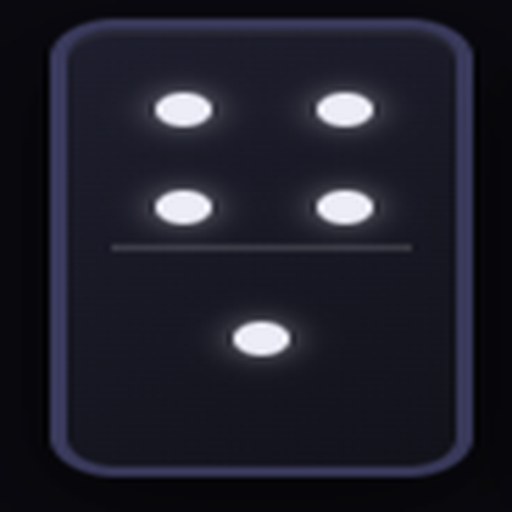
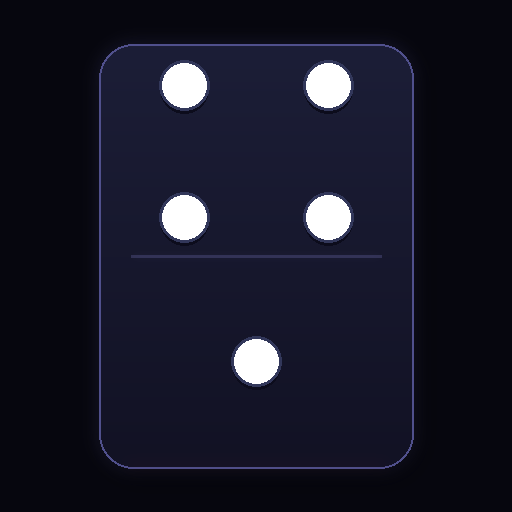
chore: update README screenshots with new Play Store images
- Replace 5 old screenshots with 6 new high-quality ones
  (home, lobby, game, ranking-active, ranking-winner, join)
- Fix image names (loby → lobby, party-players → game, etc.)
- Add 6th screenshot: join match page
- Remove dead icon-resize code from take_screenshots.py
  (icon is now generated by scripts/generate_icon.py)
- Keep icone-domino-placar.png as source artwork

Changed region(s): [[0.0938, 0.0312, 0.9375, 0.9375], [0.4375, 0.5938, 0.5938, 0.75]]

diff --git a/scripts/generate_icon.py b/scripts/generate_icon.py
@@ -2,8 +2,9 @@
 """
 Generate a polished 512×512 Play Store icon for Dominó Placar.
 
-Draws a clean domino tile (4|1) from scratch using Pillow,
-matching the app's dark theme.
+Draws a domino tile (4|1) matching the app's original dark
+style: glowing edge, 3D dots with specular highlights, subtle
+depth gradient on the tile face.
 """
 
 import os
@@ -11,96 +12,152 @@ from pathlib import Path
 from PIL import Image, ImageDraw, ImageFilter
 
 OUT = Path("play-store/app-icon-512.png")
+SIZE = 512
 
-# ── Colors (dark theme matching the app) ──
-BG = (9, 9, 15)
-TILE_FACE = (30, 30, 52)
-TILE_EDGE = (55, 55, 88)
-DOT_WHITE = (235, 235, 250)
-DIVIDER_C = (65, 65, 100)
+# ── Colors matching icone-domino-placar.png original ──
+BG = (6, 6, 14)
+TILE_DARK = (18, 18, 36)       # bottom of tile gradient
+TILE_LIGHT = (28, 30, 55)      # top of tile gradient
+EDGE_GLOW = (80, 80, 140)      # bluish edge glow
+DOT_BASE = (220, 225, 245)     # main dot color
+DOT_SHINE = (255, 255, 255)    # specular highlight
+DOT_SHADOW = (12, 12, 28)      # inset shadow behind dot
+DIVIDER_C = (50, 50, 85)
 ACCENT = (233, 69, 96)
 
-SIZE = 512
+
+def _tile_gradient(w, h, top, bot, radius):
+    """Create a tile-shaped image with vertical gradient."""
+    img = Image.new("RGBA", (w, h), (0, 0, 0, 0))
+    draw = ImageDraw.Draw(img)
+    for y in range(h):
+        t = y / max(h - 1, 1)
+        c = tuple(int(top[i] * (1 - t) + bot[i] * t) for i in range(3))
+        draw.line([(0, y), (w - 1, y)], fill=(*c, 255))
+    # Mask to rounded rect
+    mask = Image.new("L", (w, h), 0)
+    ImageDraw.Draw(mask).rounded_rectangle([0, 0, w - 1, h - 1], radius=radius, fill=255)
+    img.putalpha(mask)
+    return img
+
+
+def _draw_dot(canvas, cx, cy, r):
+    """Draw a 3D-style dot: inset shadow + base + gradient + specular."""
+    draw = ImageDraw.Draw(canvas)
+
+    # Inset shadow (offset down)
+    draw.ellipse([cx - r - 2, cy - r + 2, cx + r + 2, cy + r + 6], fill=DOT_SHADOW)
+
+    # Outer glow ring
+    draw.ellipse([cx - r - 3, cy - r - 3, cx + r + 3, cy + r + 3],
+                  fill=(50, 55, 90))
+
+    # Base dot
+    draw.ellipse([cx - r, cy - r, cx + r, cy + r], fill=DOT_BASE)
+
+    # Inner gradient: brighter toward top-left
+    for i in range(r, 2, -1):
+        t = 1 - (i / r)
+        # Shift center toward top-left for 3D lighting
+        ox, oy = -int(r * 0.15 * t), -int(r * 0.2 * t)
+        alpha = int(100 * t * t)
+        draw.ellipse([cx + ox - i, cy + oy - i, cx + ox + i, cy + oy + i],
+                      fill=(*DOT_SHINE, alpha))
+
+    # Strong specular highlight
+    sr = int(r * 0.32)
+    sx, sy = cx - int(r * 0.28), cy - int(r * 0.32)
+    draw.ellipse([sx - sr, sy - sr, sx + sr, sy + sr], fill=(*DOT_SHINE, 230))
+    # Tiny hard spec
+    tr = int(r * 0.15)
+    draw.ellipse([sx - tr, sy - tr, sx + tr, sy + tr], fill=(*DOT_SHINE, 255))
 
 
 def generate():
-    canvas = Image.new("RGB", (SIZE, SIZE), BG)
-    draw = ImageDraw.Draw(canvas)
+    canvas = Image.new("RGBA", (SIZE, SIZE), (*BG, 255))
 
-    # ── Tile dimensions (portrait, centered) ──
-    tile_w, tile_h = 300, 410
-    cr = 30
+    # ── Tile dimensions ──
+    tile_w, tile_h = 310, 420
+    cr = 32
     tx = (SIZE - tile_w) // 2
     ty = (SIZE - tile_h) // 2
 
-    # ── Drop shadow ──
-    shadow_img = Image.new("RGBA", (SIZE, SIZE), (0, 0, 0, 0))
-    sd = ImageDraw.Draw(shadow_img)
-    sd.rounded_rectangle(
-        [tx + 6, ty + 8, tx + tile_w + 6, ty + tile_h + 8],
-        radius=cr, fill=(0, 0, 0, 100))
-    shadow_img = shadow_img.filter(ImageFilter.GaussianBlur(18))
-    # Composite shadow onto canvas
-    canvas = Image.composite(
-        Image.merge("RGB", shadow_img.split()[:3]),
-        canvas,
-        shadow_img.split()[3])
-    draw = ImageDraw.Draw(canvas)
+    # ── Outer glow (bluish like the original) ──
+    glow = Image.new("RGBA", (SIZE, SIZE), (0, 0, 0, 0))
+    gd = ImageDraw.Draw(glow)
+    # Multiple passes for soft glow
+    for expand in [14, 10, 6, 3]:
+        alpha = [12, 20, 30, 50][([14, 10, 6, 3].index(expand))]
+        gd.rounded_rectangle(
+            [tx - expand, ty - expand, tx + tile_w + expand, ty + tile_h + expand],
+            radius=cr + expand, fill=(*EDGE_GLOW, alpha))
+    glow = glow.filter(ImageFilter.GaussianBlur(8))
+    canvas = Image.alpha_composite(canvas, glow)
 
-    # ── Tile border ──
+    # ── Drop shadow ──
+    shadow = Image.new("RGBA", (SIZE, SIZE), (0, 0, 0, 0))
+    ImageDraw.Draw(shadow).rounded_rectangle(
+        [tx + 5, ty + 7, tx + tile_w + 5, ty + tile_h + 7],
+        radius=cr, fill=(0, 0, 0, 120))
+    shadow = shadow.filter(ImageFilter.GaussianBlur(14))
+    canvas = Image.alpha_composite(canvas, shadow)
+
+    # ── Tile edge/border (thin, slightly brighter) ──
+    draw = ImageDraw.Draw(canvas)
     draw.rounded_rectangle(
         [tx - 2, ty - 2, tx + tile_w + 2, ty + tile_h + 2],
-        radius=cr + 2, fill=TILE_EDGE)
+        radius=cr + 2, fill=EDGE_GLOW)
 
-    # ── Tile face ──
-    draw.rounded_rectangle(
-        [tx, ty, tx + tile_w, ty + tile_h],
-        radius=cr, fill=TILE_FACE)
+    # ── Tile face with gradient ──
+    tile_face = _tile_gradient(tile_w + 1, tile_h + 1, TILE_LIGHT, TILE_DARK, cr)
+    canvas.paste(tile_face, (tx, ty), mask=tile_face)
 
     # ── Divider line ──
+    draw = ImageDraw.Draw(canvas)
     mid_y = ty + tile_h // 2
-    margin = 28
+    margin = 30
     draw.line([(tx + margin, mid_y), (tx + tile_w - margin, mid_y)],
-              fill=DIVIDER_C, width=3)
+              fill=(*DIVIDER_C, 255), width=3)
 
-    # ── Dot positions ──
-    cx = tx + tile_w // 2
-    dot_r = 20
+    # Subtle divider glow
+    div_glow = Image.new("RGBA", (SIZE, SIZE), (0, 0, 0, 0))
+    ImageDraw.Draw(div_glow).line(
+        [(tx + margin, mid_y), (tx + tile_w - margin, mid_y)],
+        fill=(*EDGE_GLOW, 25), width=9)
+    div_glow = div_glow.filter(ImageFilter.GaussianBlur(4))
+    canvas = Image.alpha_composite(canvas, div_glow)
 
-    # Top half: 4 dots
+    # ── Dots ──
+    cx_tile = tx + tile_w // 2
+    dot_r = 22
+
+    # Top half: 4 dots (2×2)
     top_mid = ty + tile_h // 4
-    dx, dy = 70, 62
+    dx, dy = 72, 66
     top_dots = [
-        (cx - dx, top_mid - dy),
-        (cx + dx, top_mid - dy),
-        (cx - dx, top_mid + dy),
-        (cx + dx, top_mid + dy),
+        (cx_tile - dx, top_mid - dy),
+        (cx_tile + dx, top_mid - dy),
+        (cx_tile - dx, top_mid + dy),
+        (cx_tile + dx, top_mid + dy),
     ]
     # Bottom half: 1 dot
     bot_mid = ty + 3 * tile_h // 4
-    bot_dots = [(cx, bot_mid)]
+    bot_dots = [(cx_tile, bot_mid)]
 
     for (dcx, dcy) in top_dots + bot_dots:
-        # Subtle glow
-        draw.ellipse([dcx - dot_r - 6, dcy - dot_r - 6,
-                       dcx + dot_r + 6, dcy + dot_r + 6],
-                      fill=(60, 60, 90))
-        # Main dot
-        draw.ellipse([dcx - dot_r, dcy - dot_r,
-                       dcx + dot_r, dcy + dot_r],
-                      fill=DOT_WHITE)
+        _draw_dot(canvas, dcx, dcy, dot_r)
 
-    # ── Accent glow at bottom edge ──
-    accent_layer = Image.new("RGBA", (SIZE, SIZE), (0, 0, 0, 0))
-    ImageDraw.Draw(accent_layer).rounded_rectangle(
-        [tx, ty + tile_h - 8, tx + tile_w, ty + tile_h + 4],
-        radius=4, fill=(*ACCENT, 35))
-    accent_layer = accent_layer.filter(ImageFilter.GaussianBlur(10))
-    canvas = Image.alpha_composite(canvas.convert("RGBA"), accent_layer).convert("RGB")
+    # ── Subtle accent glow at bottom ──
+    accent = Image.new("RGBA", (SIZE, SIZE), (0, 0, 0, 0))
+    ImageDraw.Draw(accent).rounded_rectangle(
+        [tx + 20, ty + tile_h - 6, tx + tile_w - 20, ty + tile_h + 2],
+        radius=3, fill=(*ACCENT, 25))
+    accent = accent.filter(ImageFilter.GaussianBlur(8))
+    canvas = Image.alpha_composite(canvas, accent)
 
     # Save
     OUT.parent.mkdir(parents=True, exist_ok=True)
-    canvas.save(str(OUT), "PNG", optimize=True)
+    canvas.convert("RGB").save(str(OUT), "PNG", optimize=True)
     print(f"✅ {OUT} ({OUT.stat().st_size // 1024}KB)")
 
 
